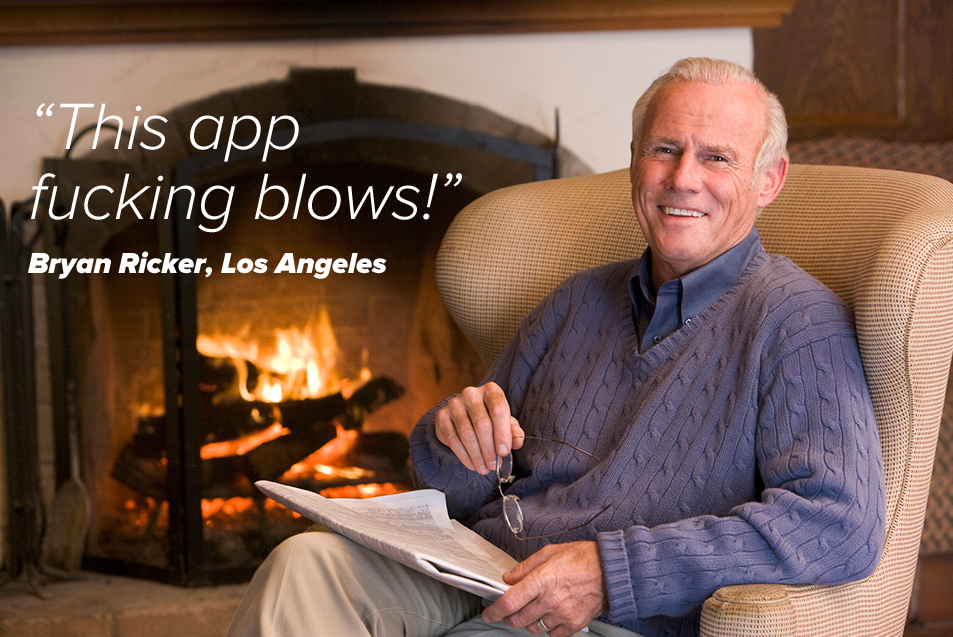
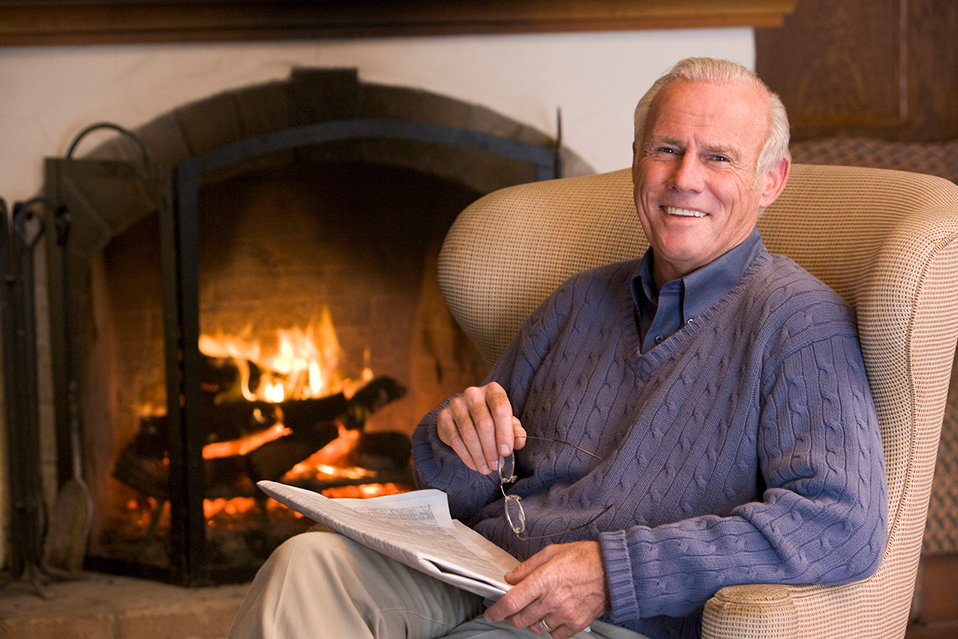
Random fonts, fix positioning

diff --git a/app.rb b/app.rb
@@ -3,6 +3,49 @@ require 'RMagick'
 
 # http://www.imagemagick.org/RMagick/doc/usage.html
 
+LOCATIONS = {
+  "Jon White" => "Seattle",
+  "Hubot"     => "ENCOM"
+}
+
+FONTS = [
+  "AvantGarde-Book",
+  "AvantGarde-BookOblique",
+  "AvantGarde-Demi",
+  "AvantGarde-DemiOblique",
+  "Bookman-Demi",
+  "Bookman-DemiItalic",
+  "Bookman-Light",
+  "Bookman-LightItalic",
+  "Courier",
+  "Courier-Bold",
+  "Courier-BoldOblique",
+  "Courier-Oblique",
+  "fixed",
+  "Helvetica",
+  "Helvetica-Bold",
+  "Helvetica-BoldOblique",
+  "Helvetica-Narrow",
+  "Helvetica-Narrow-Bold",
+  "Helvetica-Narrow-BoldOblique",
+  "Helvetica-Narrow-Oblique",
+  "Helvetica-Oblique",
+  "NewCenturySchlbk-Bold",
+  "NewCenturySchlbk-BoldItalic",
+  "NewCenturySchlbk-Italic",
+  "NewCenturySchlbk-Roman",
+  "Palatino-Bold",
+  "Palatino-BoldItalic",
+  "Palatino-Italic",
+  "Palatino-Roman",
+  "Symbol",
+  "Times-Bold",
+  "Times-BoldItalic",
+  "Times-Italic",
+  "Times-Roman"
+]
+
+
 get '/' do
   if params[:name] && !params[:name].empty?
     "#{params[:name]} fucking blows."
@@ -14,29 +57,41 @@ end
 get '/:key' do
   content_type 'image/png'
 
-  subject = params[:text].to_s.gsub(/\.png$/, "")
-  speaker = params[:name].to_s.gsub(/\.png$/, "")
+  subject   = params[:text].to_s.gsub(/\.png$/, "")
+  speaker   = params[:name].to_s.gsub(/\.png$/, "")
 
-  image = Magick::Image.read("images/#{params[:key]}.png")[0]
-  text = Magick::Draw.new
+  image   = Magick::Image.read("images/#{params[:key]}.png")[0]
+  message_text    = Magick::Draw.new
+  credit_text     = Magick::Draw.new
 
   if !subject.empty?
-    text.annotate(image, 290, 170, 0, 0, subject) do
-      text.gravity = Magick::SouthEastGravity
-      self.pointsize = 72
-      self.font_weight = Magick::BoldWeight
-      self.stroke = "black"
-      self.fill = "red"
+    message = "\"#{subject}\nfucking blows!\""
+
+    message_text.annotate(image, 200, 200, 30, 100, message) do
+      message_text.gravity = Magick::NorthWestGravity
+
+      self.font               = FONTS.sample
+      self.pointsize          = 72
+      self.interline_spacing  = 10
+
+      self.fill     = "white"
+      self.stroke   = "transparent"
     end
   end
 
   if !speaker.empty?
-    text.annotate(image, 220, 280, 0, 0, speaker) do
-      text.gravity = Magick::SouthEastGravity
-      self.pointsize = 30
-      self.font_weight = Magick::BoldWeight
-      self.stroke = "black"
-      self.fill = "red"
+    location  = LOCATIONS[speaker] || "Los Angeles"
+    credit    = "#{speaker}, #{location}"
+
+    credit_text.annotate(image, 200, 200, 30, 275, credit) do
+      credit_text.gravity = Magick::NorthWestGravity
+
+      self.font         = "AvantGarde-BookOblique"
+      self.pointsize    = 30
+      self.font_weight  = Magick::BoldWeight
+
+      self.fill     = "white"
+      self.stroke   = 'transparent'
     end
   end
 
